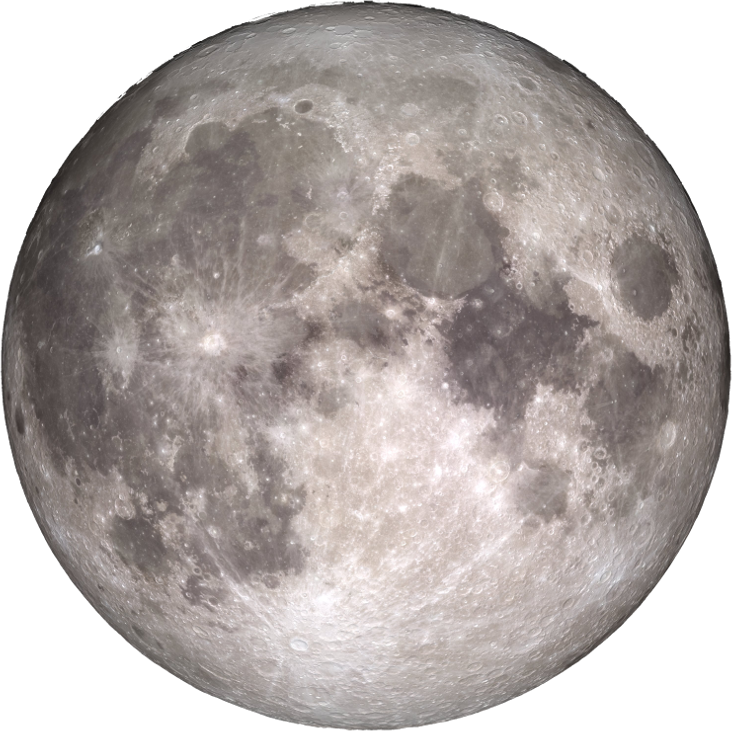
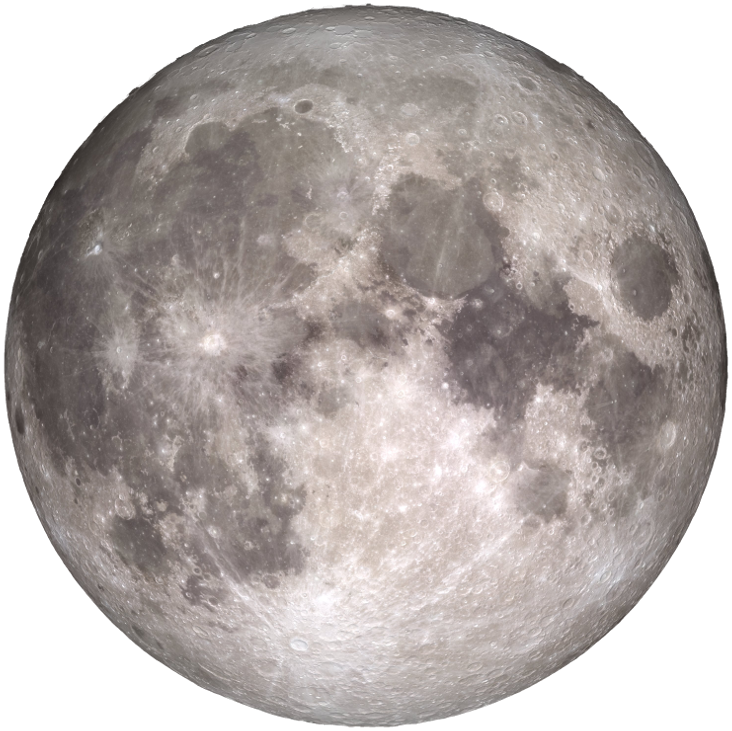
Improved images of planets

diff --git a/src/app/app.js b/src/app/app.js
@@ -15,10 +15,10 @@ import VenusImage from '../images/planets/venus.png';
 import EarthImage from '../images/planets/earth.png';
 import MoonImage from '../images/planets/moon.png';
 import MarsImage from '../images/planets/mars.png';
-import JupiterImage from '../images/planets/jupiter.jpg';
-import SaturnImage from '../images/planets/saturn.jpg';
-import UranusImage from '../images/planets/uranus.jpg';
-import NeptuneImage from '../images/planets/neptune.jpg';
+import JupiterImage from '../images/planets/jupiter.png';
+import SaturnImage from '../images/planets/saturn.png';
+import UranusImage from '../images/planets/uranus.png';
+import NeptuneImage from '../images/planets/neptune.png';
 import Constants from './math/constants';
 import BackgroundBuilder from './builders/backgroundBuilder';
 

diff --git a/src/app/renderer.js b/src/app/renderer.js
@@ -20,6 +20,7 @@ export default class Renderer {
         this.defaultFillStyle = 'white';
         this.defaultStrokeStyle = 'white';
         this.defaultFontStyle = '18px Calibri';
+        this.objectColor = '#f78300';
         
         this.renderables = [];
     }
@@ -36,7 +37,8 @@ export default class Renderer {
             offset: this.offset,
             defaultFillStyle: this.defaultFillStyle,
             defaultStrokeStyle: this.defaultStrokeStyle,
-            defaultFontStyle: this.defaultFontStyle
+            defaultFontStyle: this.defaultFontStyle,
+            objectColor: this.objectColor
         };
 
         this.renderables.forEach((renderable) => {

diff --git a/src/app/objects/body.js b/src/app/objects/body.js
@@ -61,8 +61,8 @@ export default class Body {
     renderArc(context, properties) {
         const absolutePosition = this.getAbsolutePosition(properties);
         context.beginPath();
-        context.fillStyle = properties.defaultFillStyle;
-        context.strokeStyle = properties.defaultStrokeStyle;
+        context.fillStyle = properties.objectColor;
+        context.strokeStyle = properties.objectColor;
         context.arc(
             absolutePosition.x,
             absolutePosition.y,
